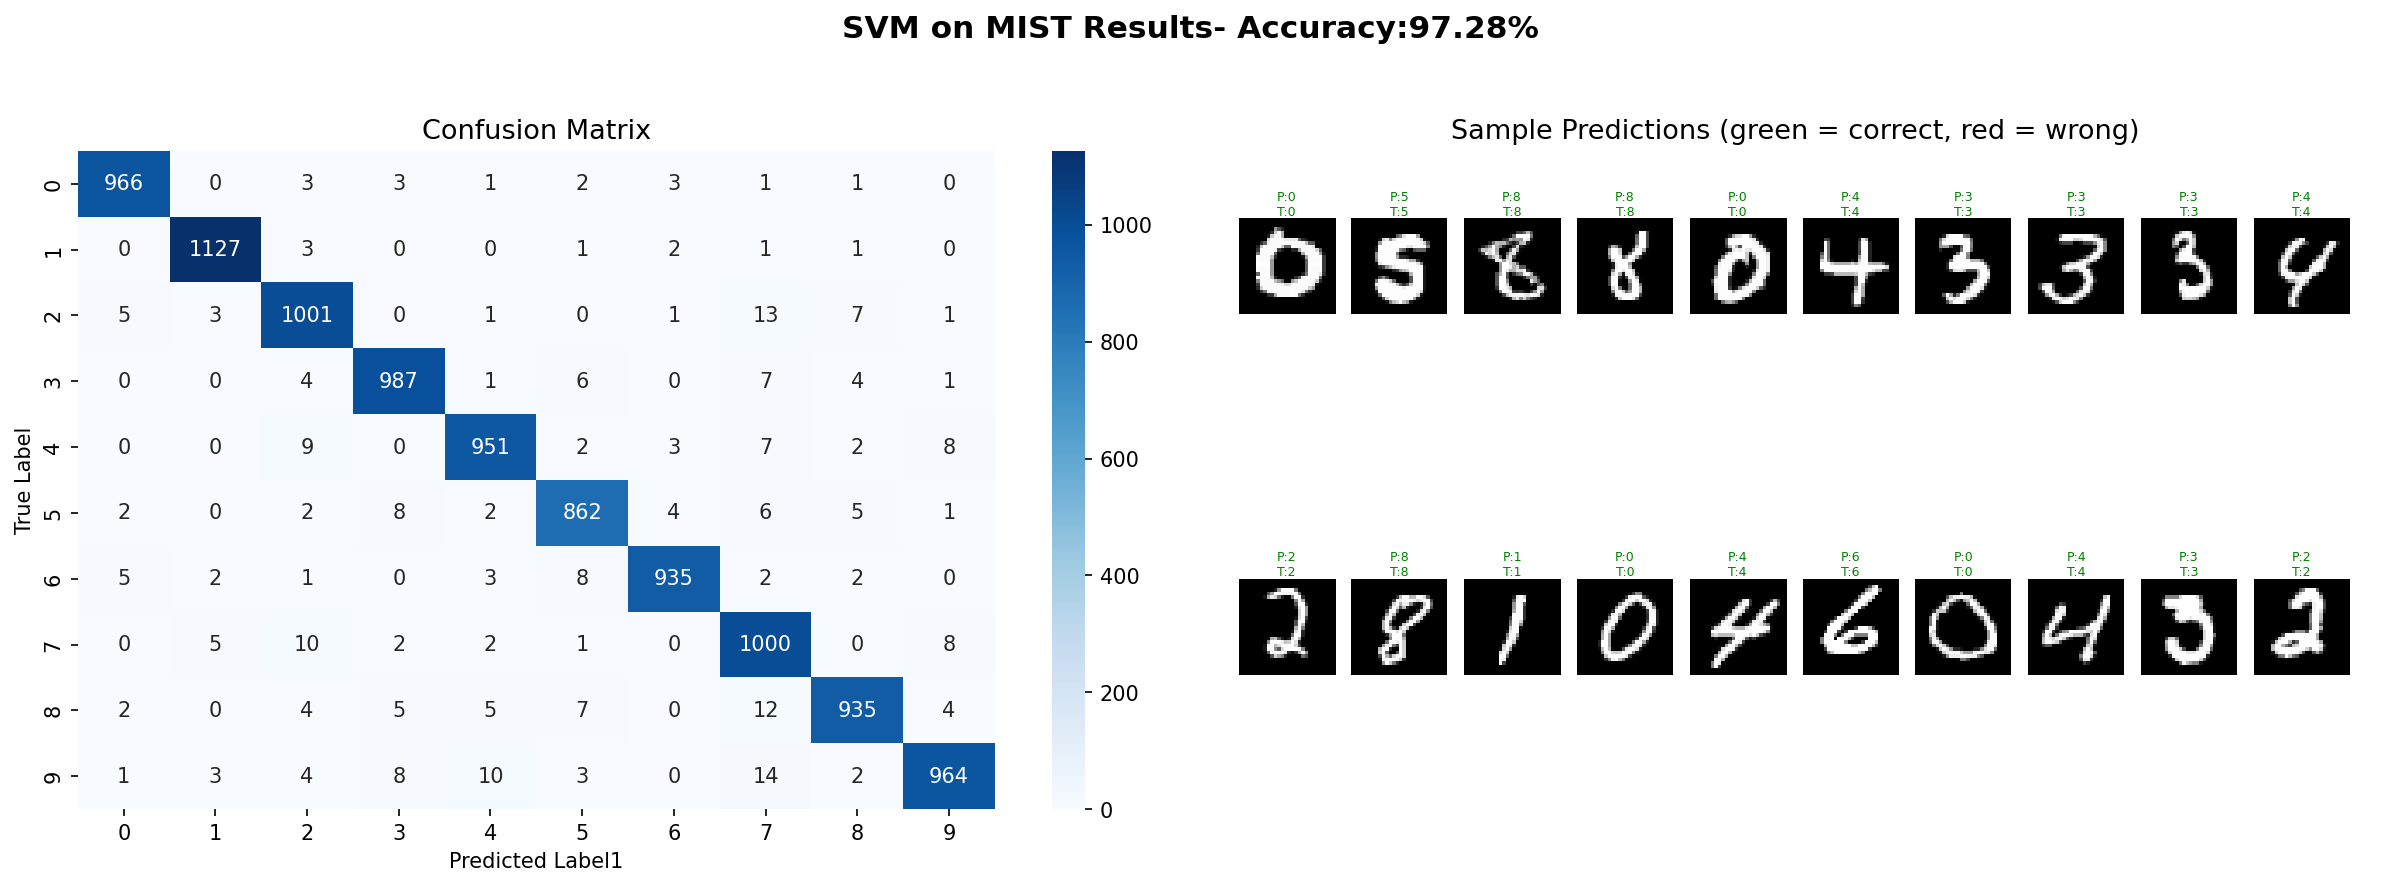
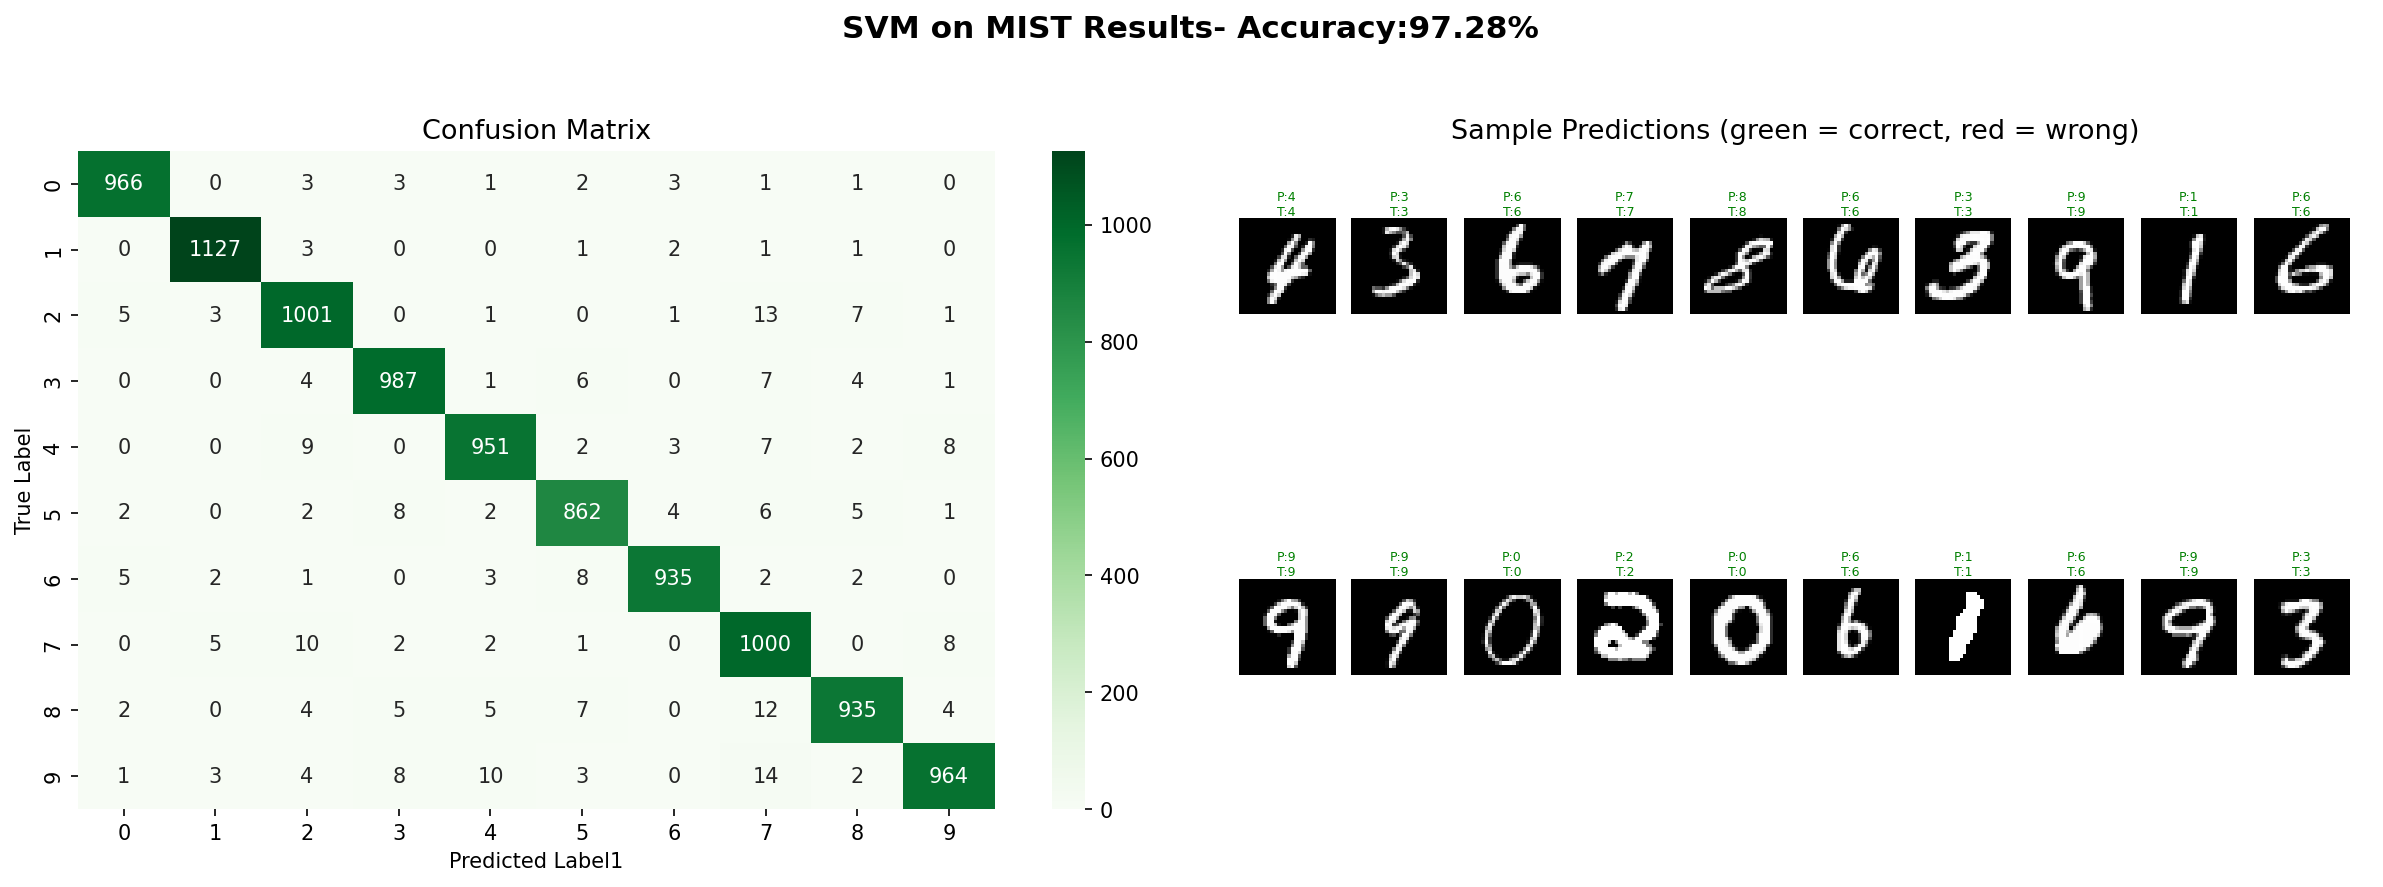
changed the training sample size from 10k to 60k

diff --git a/basics/modelTraining/mnist_modelTraining.py b/basics/modelTraining/mnist_modelTraining.py
@@ -77,10 +77,10 @@ print("TRAINING SVM WITH RBF KERNEL (Kernel=rbf, C=5, gamma=scale)\n")
 
 svm = SVC(kernel="rbf", C=5, gamma="scale", random_state=42)
 
-t0 = time.time()
+# t0 = time.time()
 svm.fit(X_train_scaled, y_train_sub)
-elapsed = time.time() - t0
-print(f"Training done in {elapsed:.1f} seconds\n")
+# elapsed = time.time() - t0
+# print(f"Training done in {elapsed:.1f} seconds\n")
 print(f"Number of support vectors: {svm.support_vectors_.shape[0]}\n")
 
 # predicting and evaluating on test set
@@ -89,7 +89,7 @@ print("PREDICTING AND EVALUATING ON TEST SET (Evaluating on 10,000 test images)\
 y_pred = svm.predict(X_test_scaled)
 acc = accuracy_score(y_test, y_pred)
 print(f" Test Accuracy: {acc*100:.2f}%\n")
-print("Detaield Per-class report: \n")
+print("Detailed Per-class report: \n")
 print(classification_report(y_test, y_pred, target_names=[str(i) for i in range(10)]))
 
 # confusion matrix and simple predictions
@@ -106,7 +106,7 @@ sns.heatmap(
     cm,
     annot=True,
     fmt="d",
-    cmap="Blues",
+    cmap="Greens",
     xticklabels=range(10),
     yticklabels=range(10),
     ax=axes[0],
@@ -132,5 +132,5 @@ for i, si in enumerate(sample_idx):
 plt.tight_layout(rect=[0, 0, 1, 0.95])
 plt.savefig('mnist_svm_results.png', dpi=150, bbox_inches='tight')
 plt.show()
-print("Plots saved as mnist_svm_results.png\n")
-print("END OF SCRIPT\n")
+# print("Plots saved as mnist_svm_results.png\n")
+# print("END OF SCRIPT\n")
